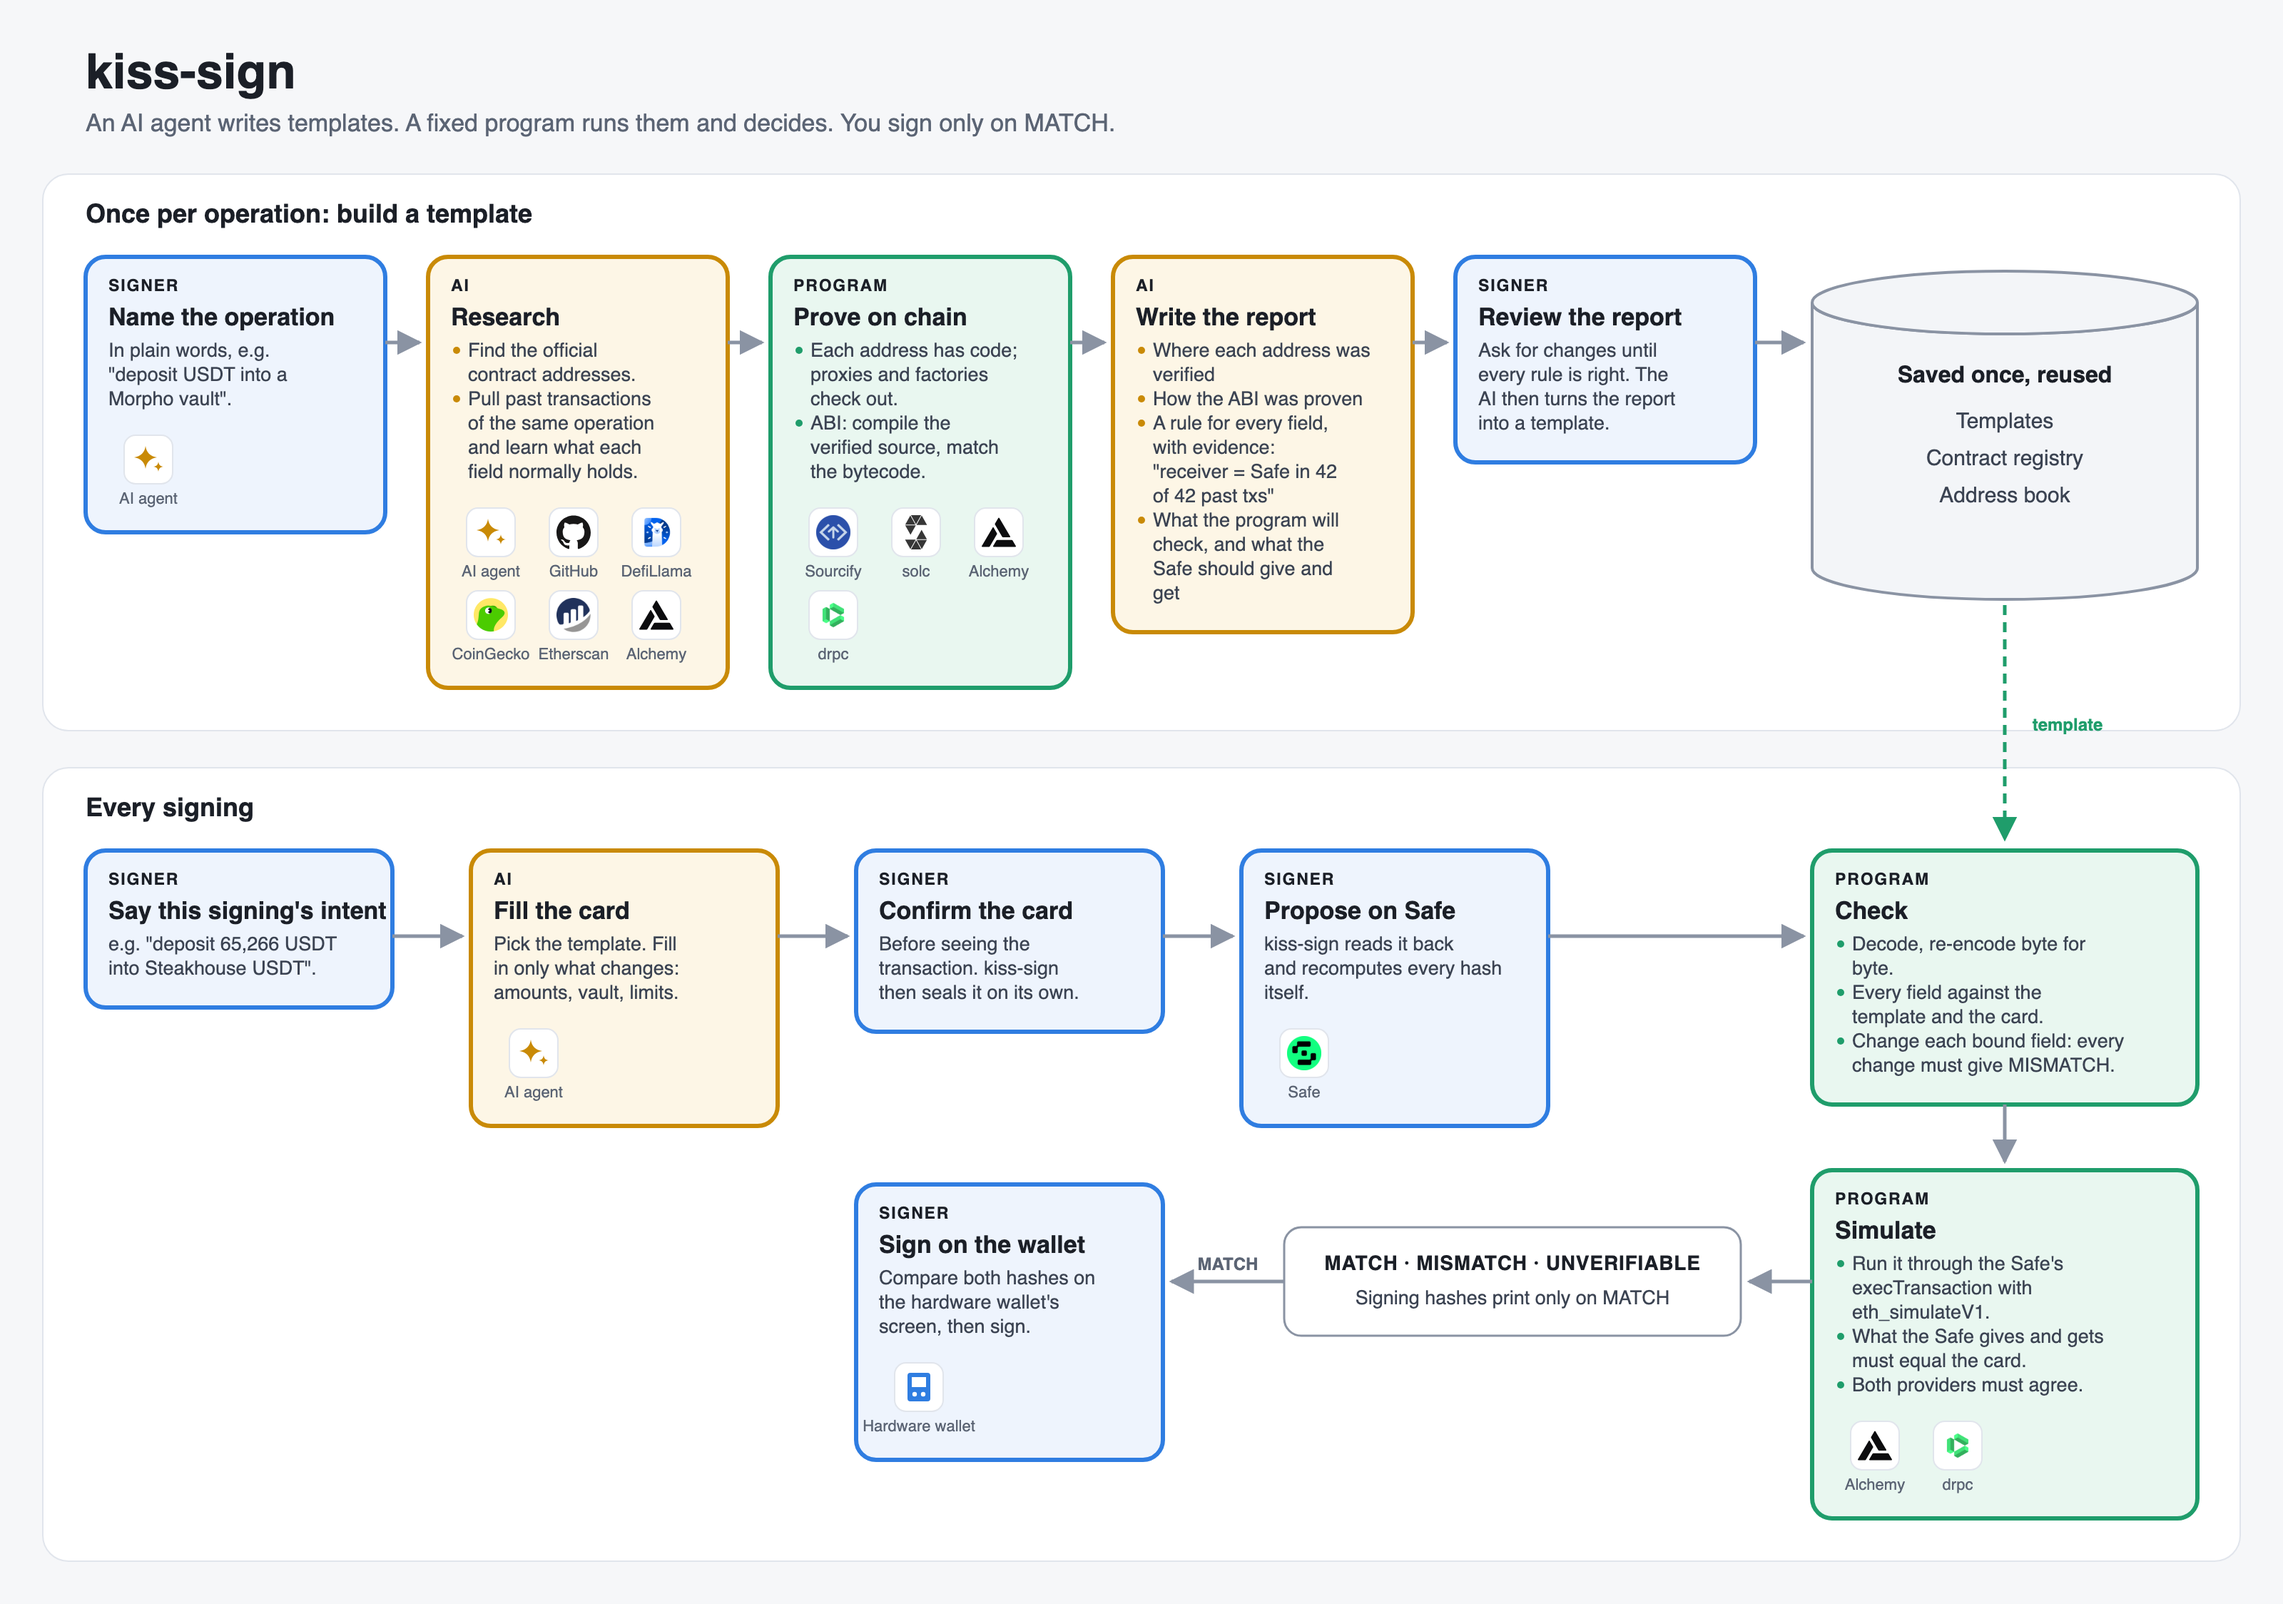
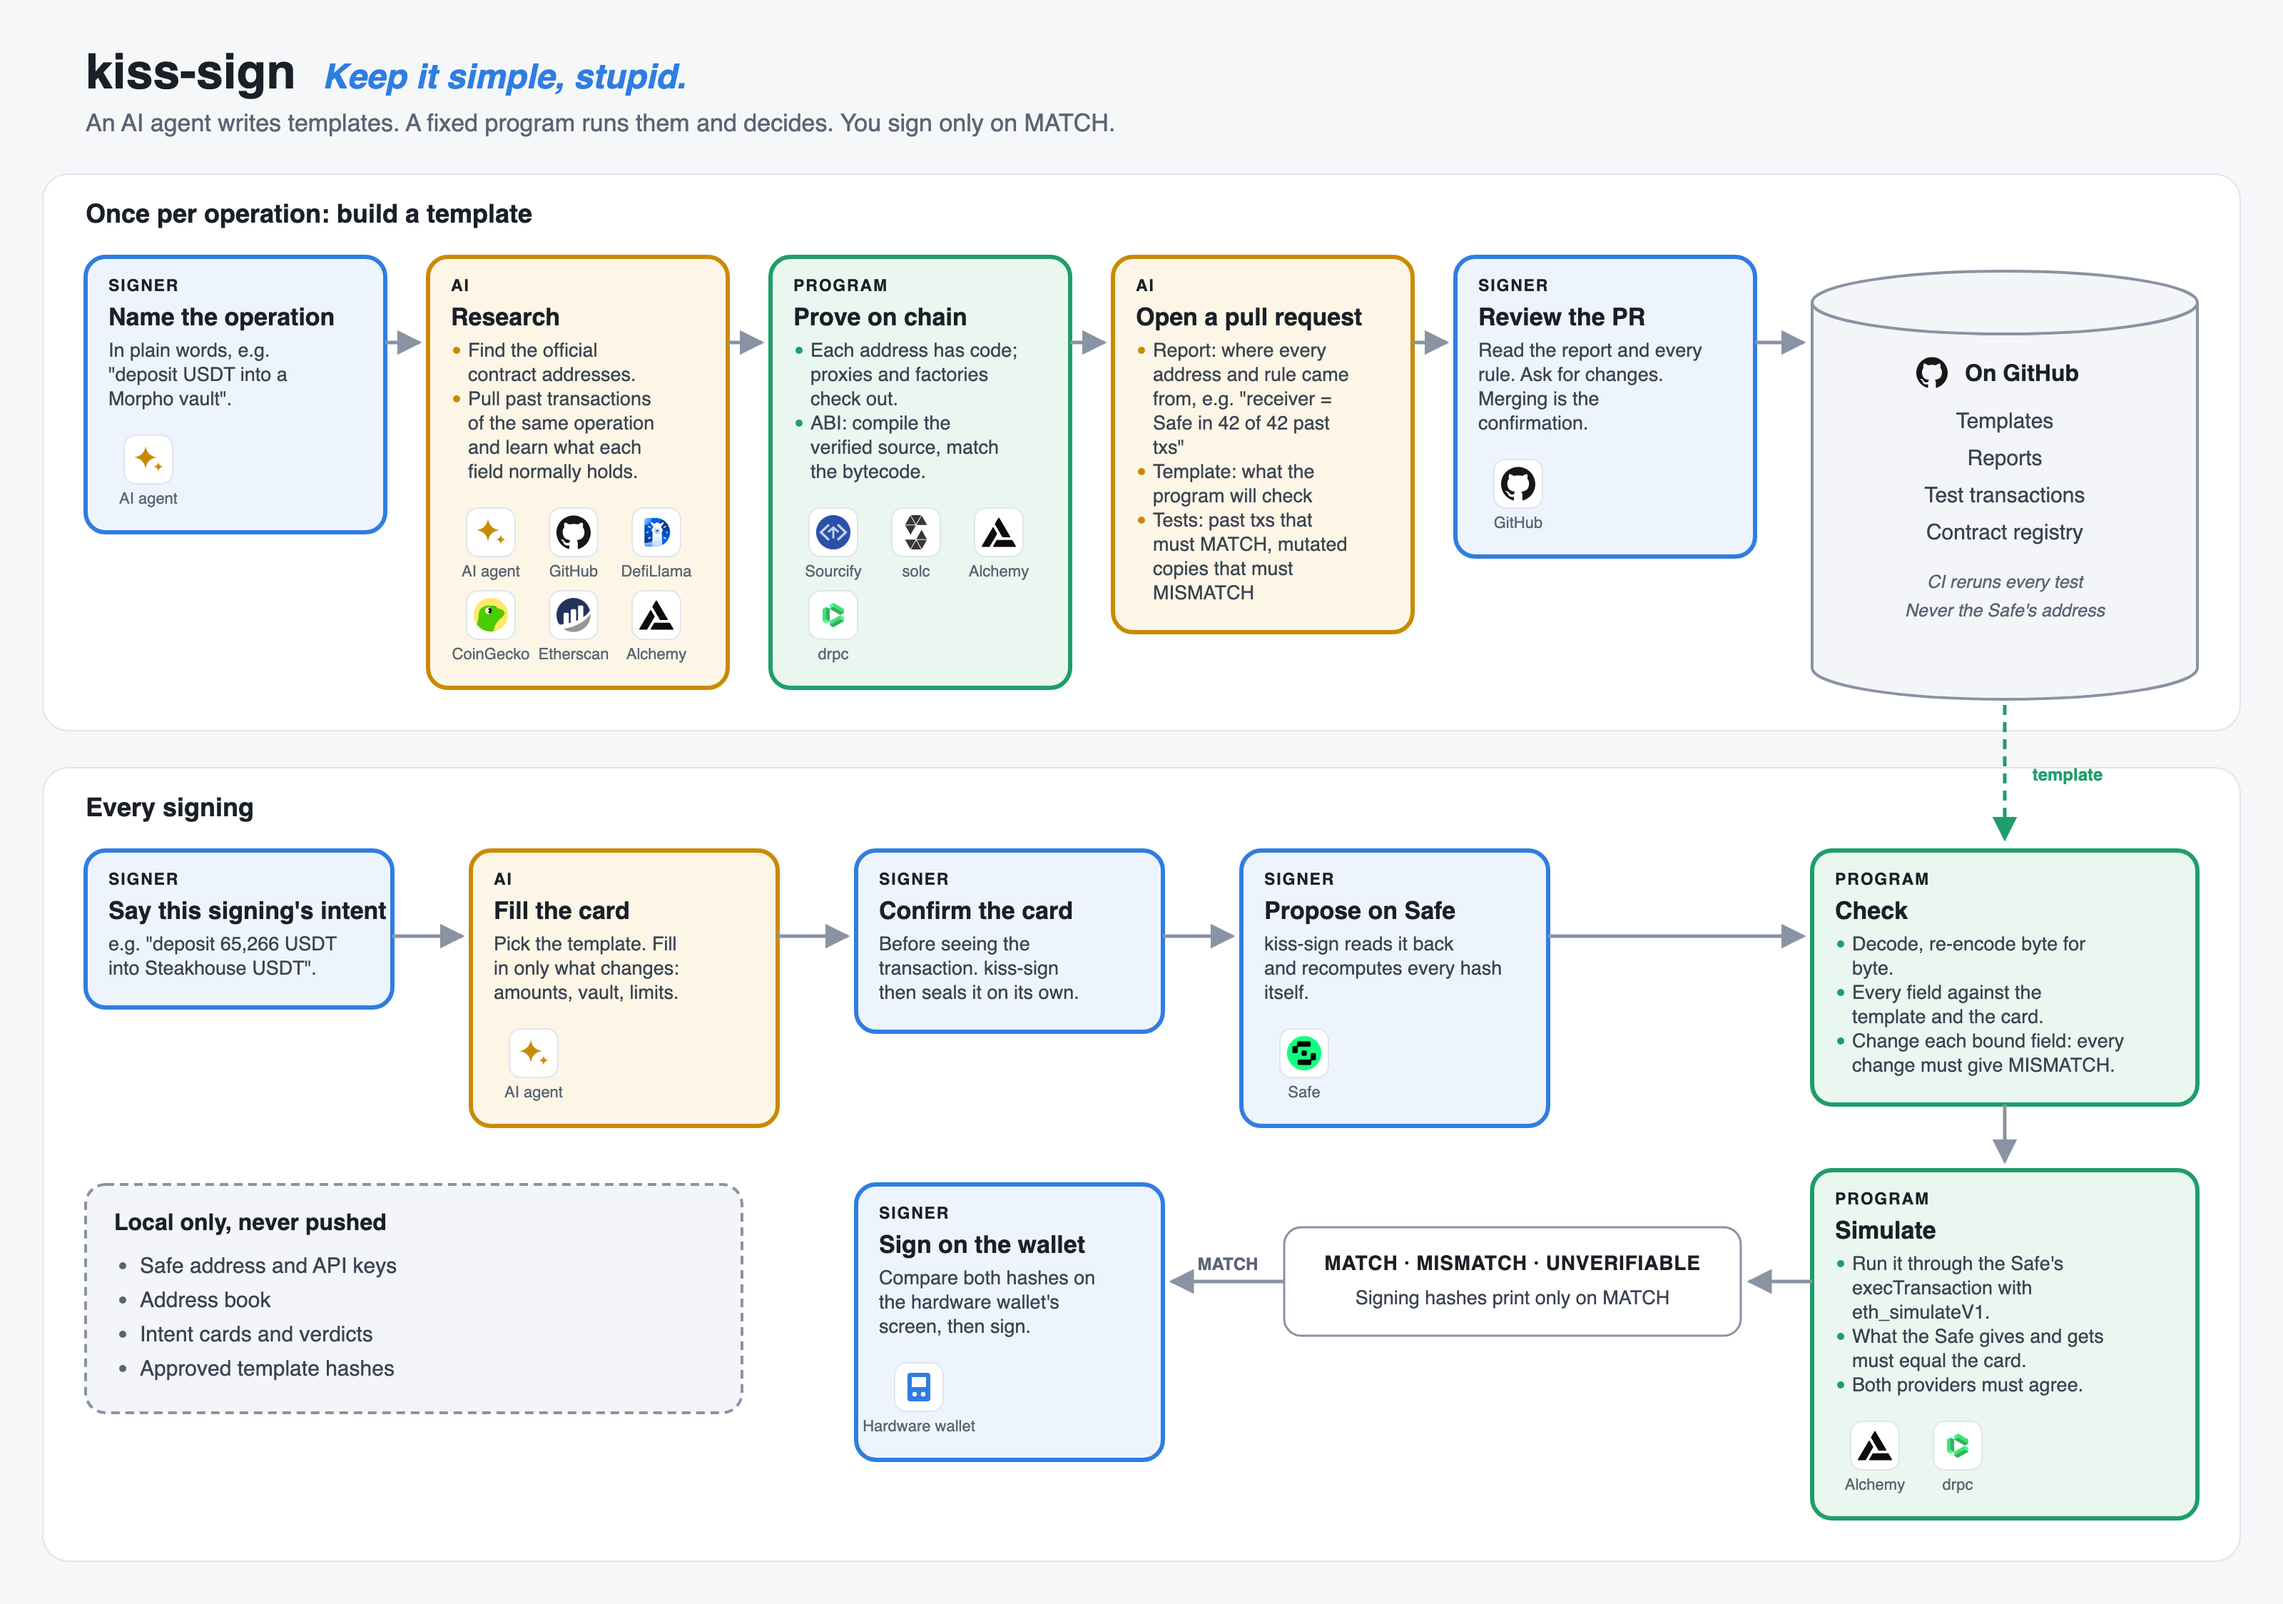
docs: publish templates with their evidence, never the Safe's address
Templates, reports, test transactions, and the contract registry live
in the repository. The AI opens a pull request for each new template;
merging it is the signer's confirmation, and CI reruns the tests. The
Safe's address, API keys, address book, intent cards, and verdicts
stay local, and a pre-push check greps for the Safe address and keys.
At signing, the program checks the template is the merged version.

The diagram gains the KISS tagline, the pull request steps, the GitHub
store, and the local-only store.

Claude-Session: https://claude.ai/code/session_019EpkRjp8kF6kL17p1vHkEd

diff --git a/docs/design.md b/docs/design.md
@@ -21,8 +21,8 @@ The rule the whole design keeps: **the AI writes templates, the program runs the
 3. **Establish the ABI.** A fixed method, not the AI: fetch the verified source from Sourcify, compile it locally with a pinned `solc`, and compare the result with the bytecode read from chain. For a proxy, compare the implementation. Matching bytecode proves the ABI belongs to the deployed contract.
 4. **Study past transactions.** The AI looks at real transactions of the same operation to learn each field's role and the operation's normal shape. These teach the AI. They prove nothing about safety.
 5. **Report.** Where each address was verified, where the ABI came from, which transactions were studied, what each field means, which contracts the operation touches, and what the template will check. For each field, the report counts how the studied transactions filled it, and from how many distinct senders. For example, "receiver equals the sender in 42 of 42 transactions, from 31 senders." The counts show the template matches normal use. They do not show it is safe, because fake transactions are cheap.
-6. **Signer confirms.** The signer reads the report and asks for changes.
-7. **Write the template.** The AI writes a declarative template (below) and saves it for reuse.
+6. **Write the template.** The AI writes a declarative template (below) and its test transactions, and opens a pull request with the template, the report, and the tests.
+7. **Signer reviews the pull request.** The signer reads the report and the template's rules and asks for changes. Merging the pull request is the confirmation. kiss-sign records the hash of the merged template locally.
 
 ### Every signing
 
@@ -85,6 +85,30 @@ Sealed means hashed and stored where the AI cannot write.
 ### Verdict file
 
 Every input the verdict used, so `replay` can recompute it offline.
+
+## What goes on GitHub
+
+Templates are reviewed once and reused, so they live in git, where every change is a diff someone reviewed. The evidence behind each template goes with it.
+
+| Published in the repository | Kept local, in `$KISS_SIGN_HOME` |
+|---|---|
+| Templates: what each operation checks | Config: the Safe address, providers, API keys |
+| Reports: where every address and rule came from | Address book |
+| Test transactions | Intent cards and verdict files |
+| Contract registry | Approved template hashes |
+
+- Each operation has a folder, for example `templates/morpho/vault-deposit/`, holding `template.json`, `report.md`, and `tests/`.
+- The tests are real past transactions of the operation, each with the card values it implies. Every one must give `MATCH`, and every mutated copy must give `MISMATCH`. CI reruns the decoding, field checks, and mutation checks on every change. Simulation needs live providers, so it runs locally.
+- Git stores and records; it is not trusted. At signing, the program checks that the template's hash equals the hash recorded when the signer merged it. A template from someone else's repository is only a starting point: its report still has to be reviewed.
+
+### The Safe's address is never published
+
+Published files would otherwise tie the Safe, its balances, and its history to whoever owns the repository.
+
+- Templates refer to "the Safe", never to an address.
+- Test transactions come from other senders. The signer's own Safe is excluded when searching for past transactions.
+- Reports count senders but list no Safe of the signer's.
+- Before every push, a check greps the outgoing commits for the configured Safe address and for API keys, and must find nothing.
 
 ## Engine checks that every template gets
 

diff --git a/README.md b/README.md
@@ -37,8 +37,8 @@ An operation is something like "deposit USDT into a Morpho vault" or "place a Co
 | 1. Name the operation | Signer | You say in plain words what you want to do. | An AI agent | You agree the AI's restatement is what you meant. |
 | 2. Research | AI | Find the protocol's official contract addresses on its site and GitHub, and cross-check them. Pull past transactions of the same operation and learn what each field normally holds. | An AI agent, GitHub, DefiLlama, CoinGecko, Etherscan, Alchemy | Official sources. Past transactions only teach; they prove nothing about safety, because fakes are cheap. |
 | 3. Prove on chain | Program | Confirm each address has code, which implementation a proxy points to, and which factory created it. Prove the ABI: fetch the verified source from Sourcify, compile it locally with a pinned `solc`, and match the bytecode on chain. | Sourcify, `solc`, Alchemy + drpc | A local compile that matches the chain. Two providers from different companies do not lie together. |
-| 4. Write the report | AI | Where each address was verified; how the ABI was proven; a rule for every field with its evidence, for example "receiver = Safe in 42 of 42 past transactions, from 31 senders"; what the program will check; and what the Safe should give and get. | Local | Counts show normal use, not safety. |
-| 5. Review the report | Signer | Ask for changes until every rule is right. The AI then turns the report into a template, saved with the contract registry and your address book. | Local | Your judgment. |
+| 4. Open a pull request | AI | The pull request holds three things. The report: where every address and rule came from, for example "receiver = Safe in 42 of 42 past transactions, from 31 senders". The template: what the program will check, and what the Safe should give and get. The tests: past transactions that must give `MATCH`, and mutated copies that must give `MISMATCH`. | GitHub | Counts show normal use, not safety. |
+| 5. Review the pull request | Signer | Read the report and every rule, and ask for changes. Merging is the confirmation. CI reruns the tests on every change. | GitHub | Your judgment. |
 
 ## Every signing
 
@@ -61,6 +61,14 @@ The template is reviewed once. At each signing you confirm only the values that 
 - a transfer: the token, the amount, and the recipient, which must already be in your address book.
 
 Everything else is bound once: the receiver is the Safe, contracts come from the reviewed registry, the Safe and chain come from your config, and the program reads the nonce from the Safe. See [Intent card](docs/design.md#intent-card) for every operation.
+
+## What goes on GitHub
+
+Each operation's template, report, and tests live in this repository, so every rule has a reviewed pull request and evidence behind it. The contract registry lives here too.
+
+Your Safe's address never does. Templates say "the Safe", not an address. Test transactions come from other senders, and your own Safe is left out of the search. Your Safe address, API keys, address book, intent cards, and verdicts stay local, in `$KISS_SIGN_HOME`. Before every push, a check greps the outgoing commits for your Safe address and for API keys.
+
+GitHub stores and records; it is not trusted. At signing, the program checks that the template is the exact version you merged.
 
 ## Chain access
 
